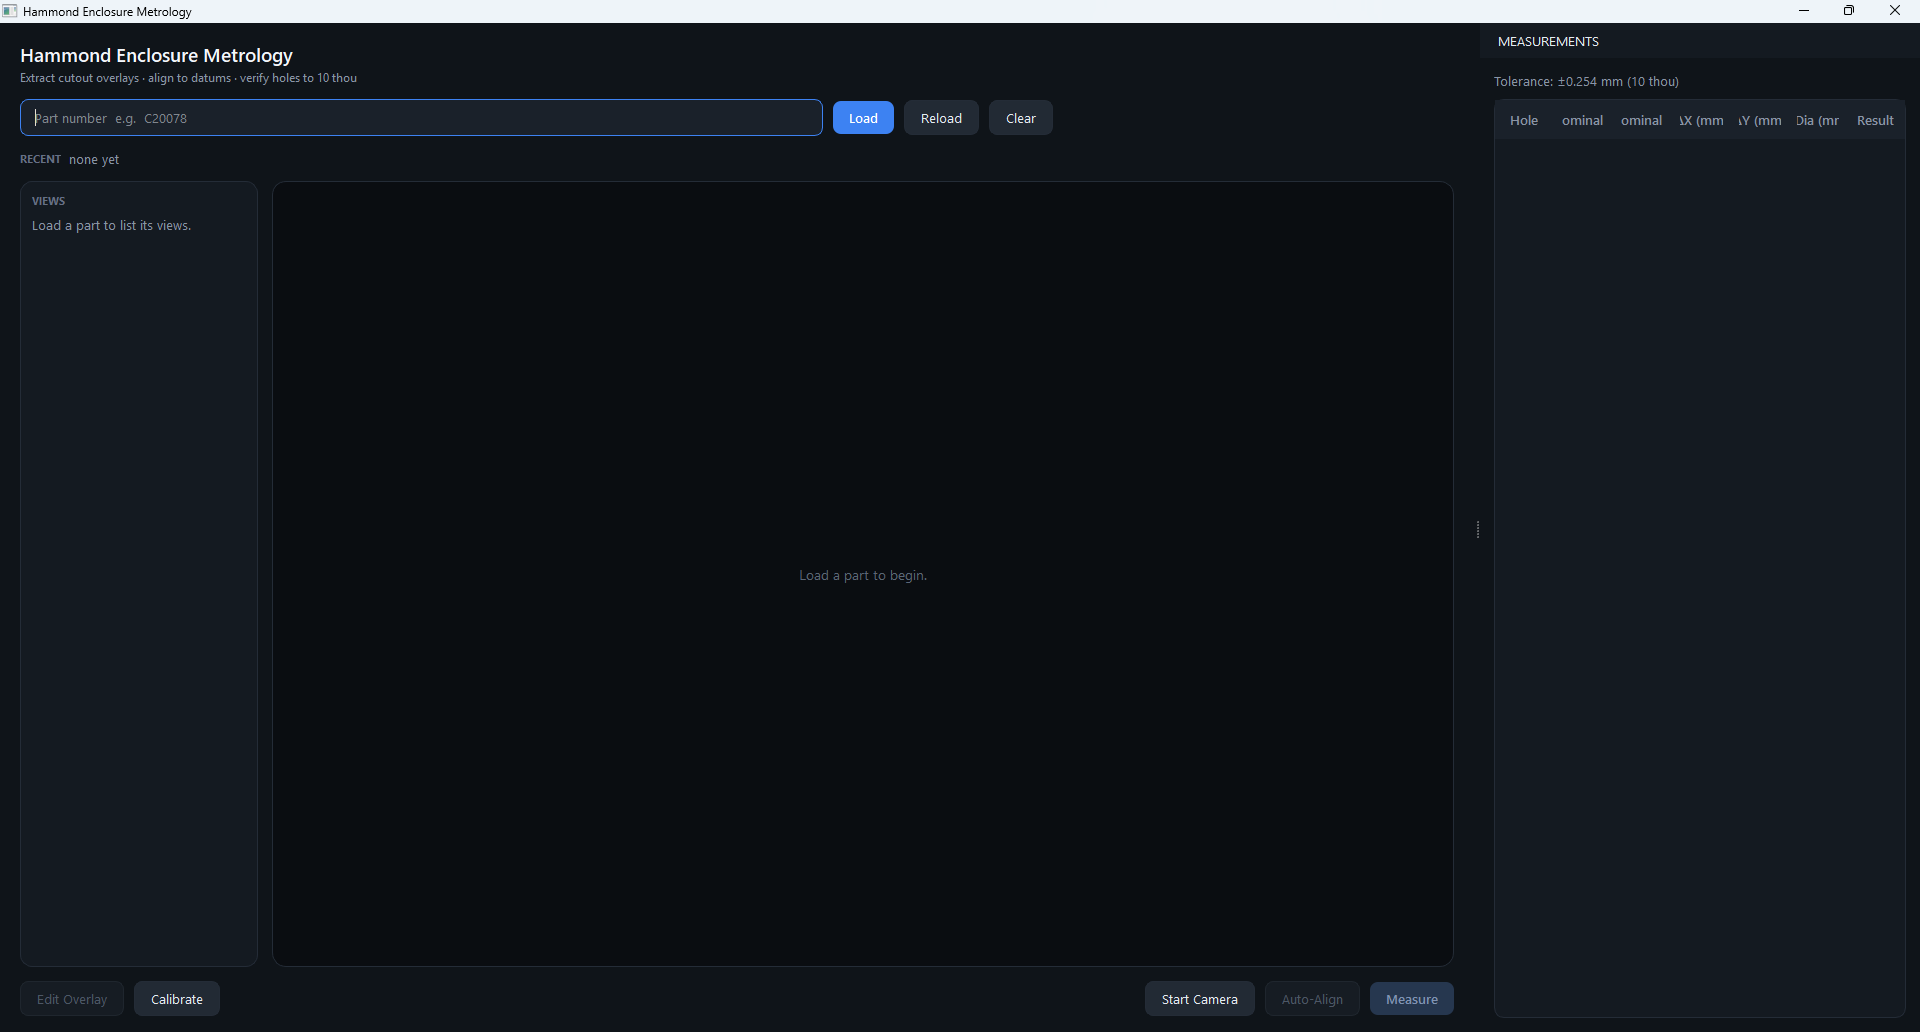
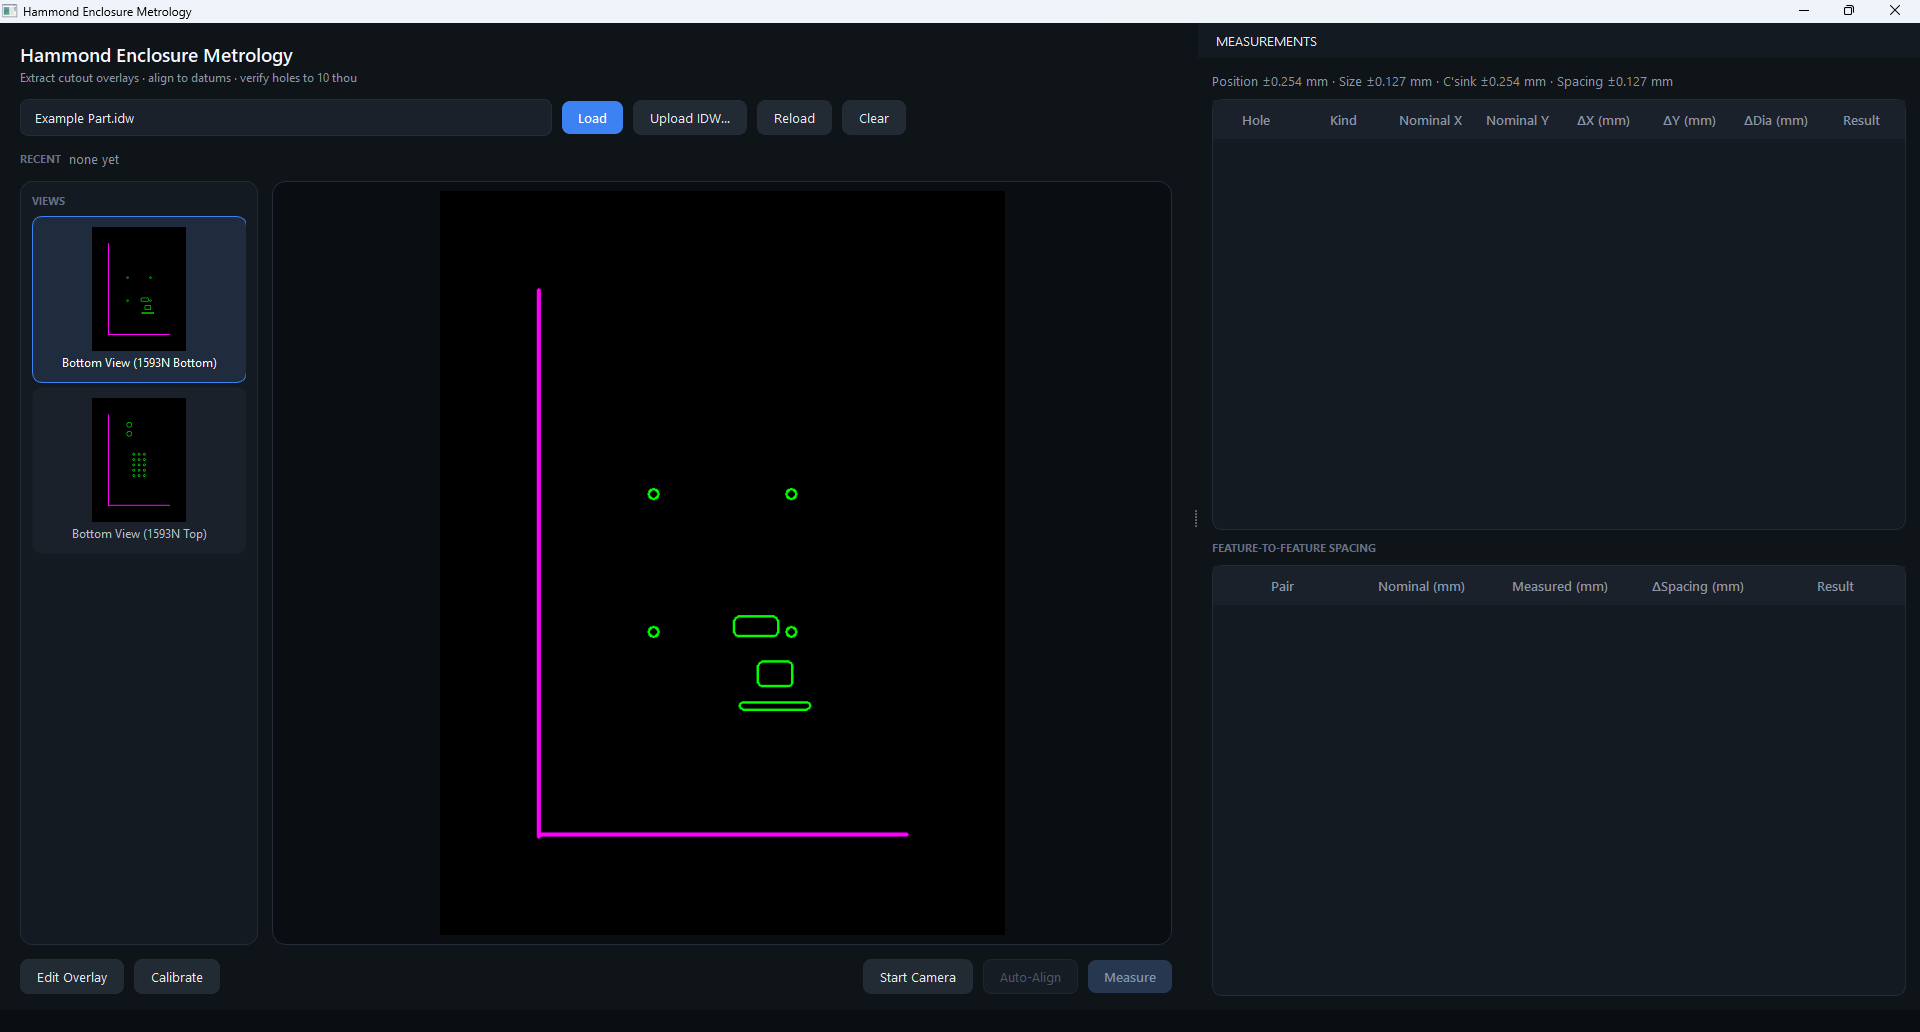
upadted some pics

diff --git a/index.html b/index.html
@@ -553,7 +553,7 @@ tailwind.config = {
       { src: 'assets/blinkrite-pcb-halfway.png', caption: '06 · Assembly — PCB build in progress' },
     ],
     aoi: [
-      { type: 'model', src: 'assets/aoi-camera-assembly.glb', poster: 'assets/aoi-camera-housing-cad.png', explode: true,
+      { type: 'model', src: 'assets/aoi-camera-assembly.glb?v=2', poster: 'assets/aoi-camera-housing-cad.png', explode: true,
         rotX: Math.PI / 2,            // orient ring light upward, matching the thumbnail
         view: [0.85, 0.72, 1.0],      // camera direction — isometric top view like the thumbnail
         zoom: 2.3,                    // pull back a little so a full explode stays in frame